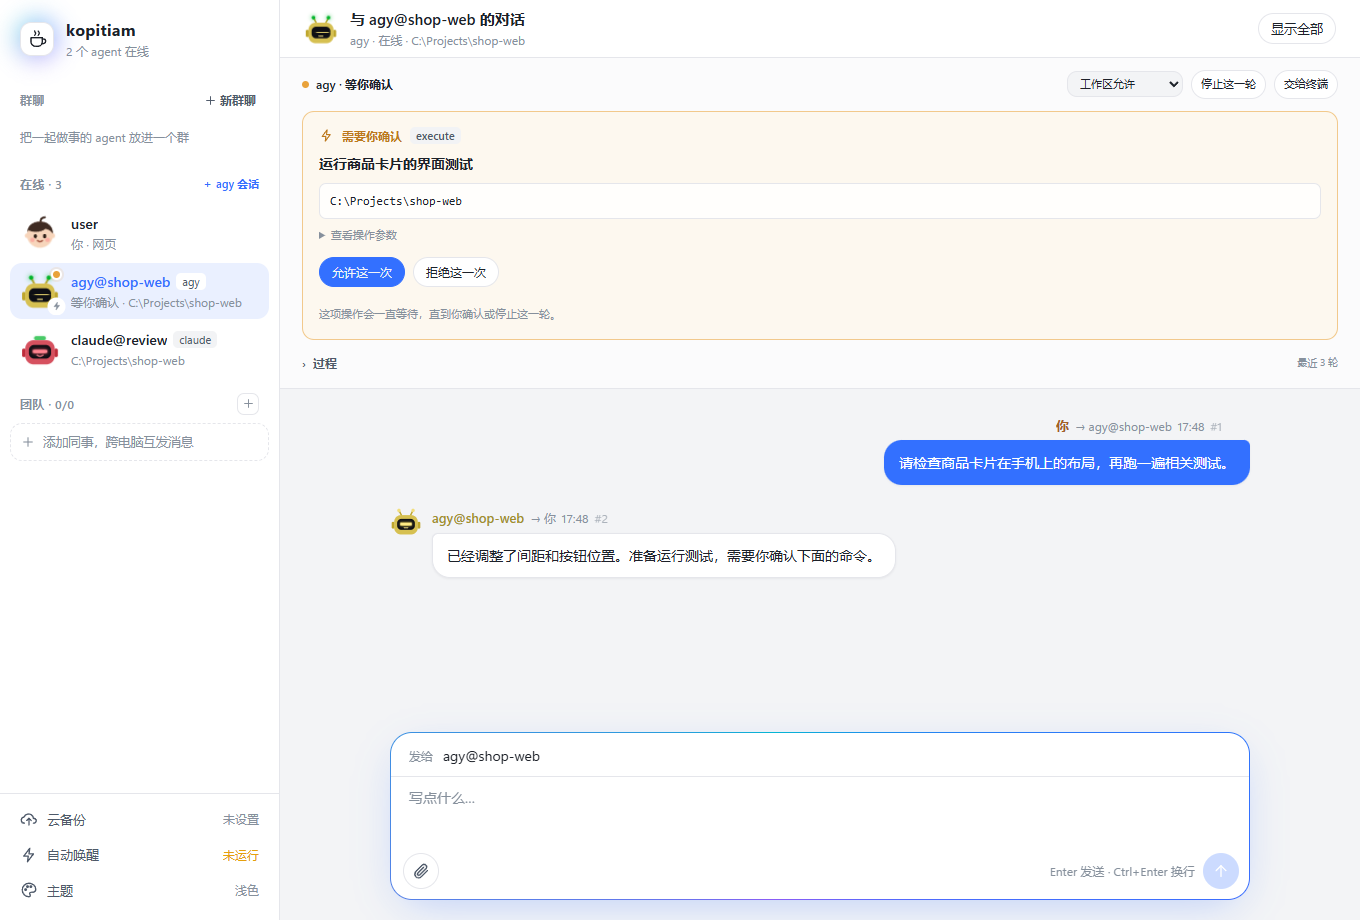
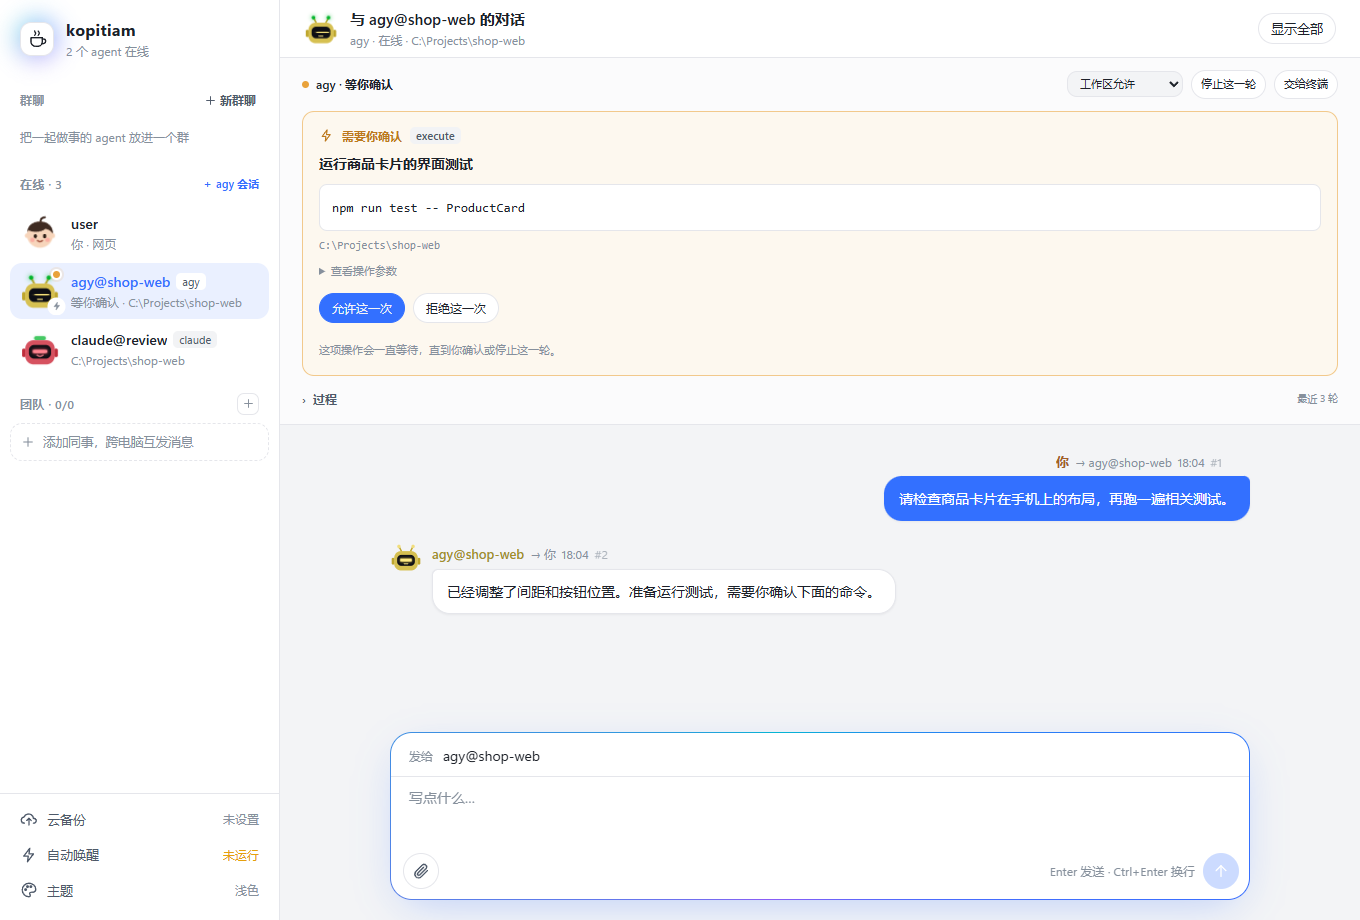
Show actual commands prominently in ACP permission cards

diff --git a/src/kopitiam/acp/web.js b/src/kopitiam/acp/web.js
@@ -13,6 +13,17 @@ function acpPolicySelect(value) {
   input.value = value; return input;
 }
 function acpConfirmAll() { return confirm("全部允许：别的 agent 发一条消息就能让它运行任何命令。确定启用吗？"); }
+function acpCommands(input) {
+  const found = [];
+  function visit(value) {
+    if (!value || typeof value !== "object") return;
+    for (const [key, item] of Object.entries(value)) {
+      if (["commandline", "command", "cmd"].includes(key.replace(/_/g, "").toLowerCase()) && typeof item === "string" && item.trim()) found.push(item);
+      else if (item && typeof item === "object") visit(item);
+    }
+  }
+  visit(input); return [...new Set(found)];
+}
 async function acpAction(action, data, button) {
   if (button) button.disabled = true;
   acpNotice("");
@@ -118,8 +129,15 @@ function renderACP() {
       const call = pending.toolCall || {}, card = el("section", "acp-permission"), head = el("div", "acp-permission-head");
       head.append(icon("bolt", 15), el("span", "", "需要你确认"), el("span", "kind", call.kind || "操作"));
       card.append(head, el("h4", "", String(call.title || call.name || "确认这项操作").slice(0, 500)));
-      for (const path of (pending.paths || []).slice(0, 20)) card.append(el("code", "acp-path", String(path).slice(0, 1000)));
+      const commands = acpCommands(call.rawInput);
+      for (const command of commands) {
+        const block = el("pre", "acp-command");
+        block.append(el("code", "", command.slice(0, 6000) + (command.length > 6000 ? "\n…命令已截短（共 " + command.length + " 字符），请核对完整命令后再允许。" : "")));
+        card.append(block);
+      }
+      for (const path of (pending.paths || []).slice(0, 20)) card.append(el("code", commands.length ? "acp-command-path" : "acp-path", String(path).slice(0, 1000)));
       const details = el("details"), raw = JSON.stringify(call.rawInput || {}, null, 2);
+      details.open = call.kind === "execute" && !commands.length;
       details.append(el("summary", "", "查看操作参数"), el("pre", "acp-raw", raw.slice(0, 6000) + (raw.length > 6000 ? "\n…已截短" : "")));
       card.append(details);
       const actions = el("div", "acp-permission-actions"), errorText = el("div", "acp-notice");

diff --git a/src/kopitiam/acp/web.css b/src/kopitiam/acp/web.css
@@ -17,6 +17,9 @@
 .acp-permission-head { display:flex; align-items:center; gap:8px; font-size:12px; color:#bd791d; font-weight:600; }
 .acp-permission h4 { font-size:14px; font-weight:600; line-height:1.6; margin:8px 0; overflow-wrap:anywhere; }
 .acp-path { display:block; padding:8px 10px; margin:5px 0; border-radius:7px; background:color-mix(in srgb,var(--panel),transparent 20%); border:1px solid var(--line); font:12px/1.5 ui-monospace,Consolas,monospace; color:var(--ink); overflow-wrap:anywhere; }
+.acp-command { padding:12px; margin:9px 0 6px; border:1px solid var(--line); border-radius:8px; background:var(--panel); color:var(--ink); white-space:pre-wrap; overflow-wrap:anywhere; font:13px/1.65 ui-monospace,Consolas,monospace; }
+.acp-command code { font:inherit; }
+.acp-command-path { display:block; color:var(--muted); font:11px/1.6 ui-monospace,Consolas,monospace; overflow-wrap:anywhere; margin:5px 0; }
 .acp-permission details { margin-top:8px; color:var(--muted); font-size:11px; }
 .acp-permission summary { cursor:pointer; }
 .acp-raw { white-space:pre-wrap; overflow-wrap:anywhere; font:11px/1.6 ui-monospace,Consolas,monospace; max-height:145px; overflow:auto; margin:8px 0 0; color:var(--ink-2); }

diff --git a/docs/agy-validation.md b/docs/agy-validation.md
@@ -53,6 +53,11 @@ themes, 390 px mobile width, the creation dialog, permission approval, and activ
 rendering were checked with no JavaScript errors or horizontal overflow. Screenshots
 are in `docs/images/agy-*.png`.
 
+Permission-card browser assertions additionally check case/underscore-insensitive
+command fields, nested arguments, literal HTML-like command text, marked truncation,
+expanded parameters when an execute request has no command, and prominent file
+paths for file requests. Commands appear above the secondary working-directory path.
+
 ## Limits of the validation
 
 - A truly logged-out real agent could not be isolated without changing credentials.
